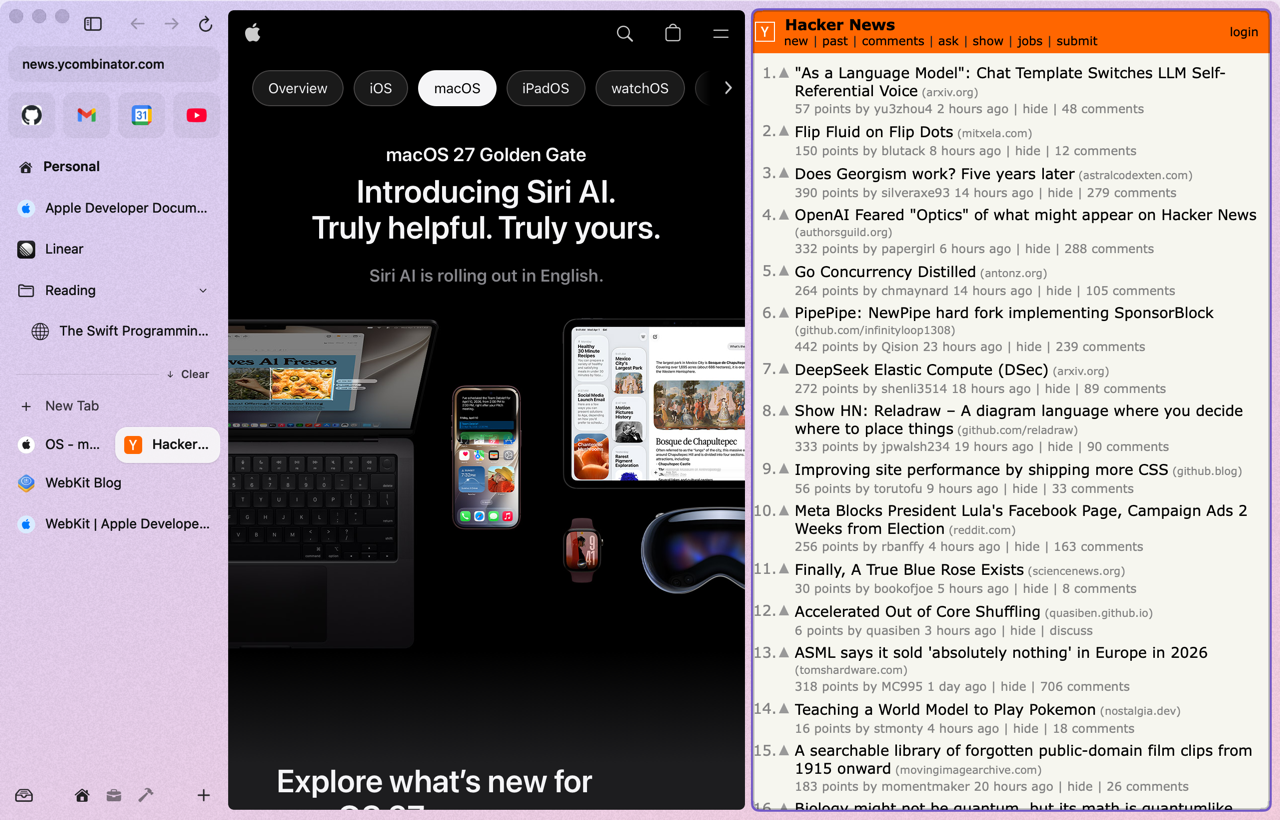
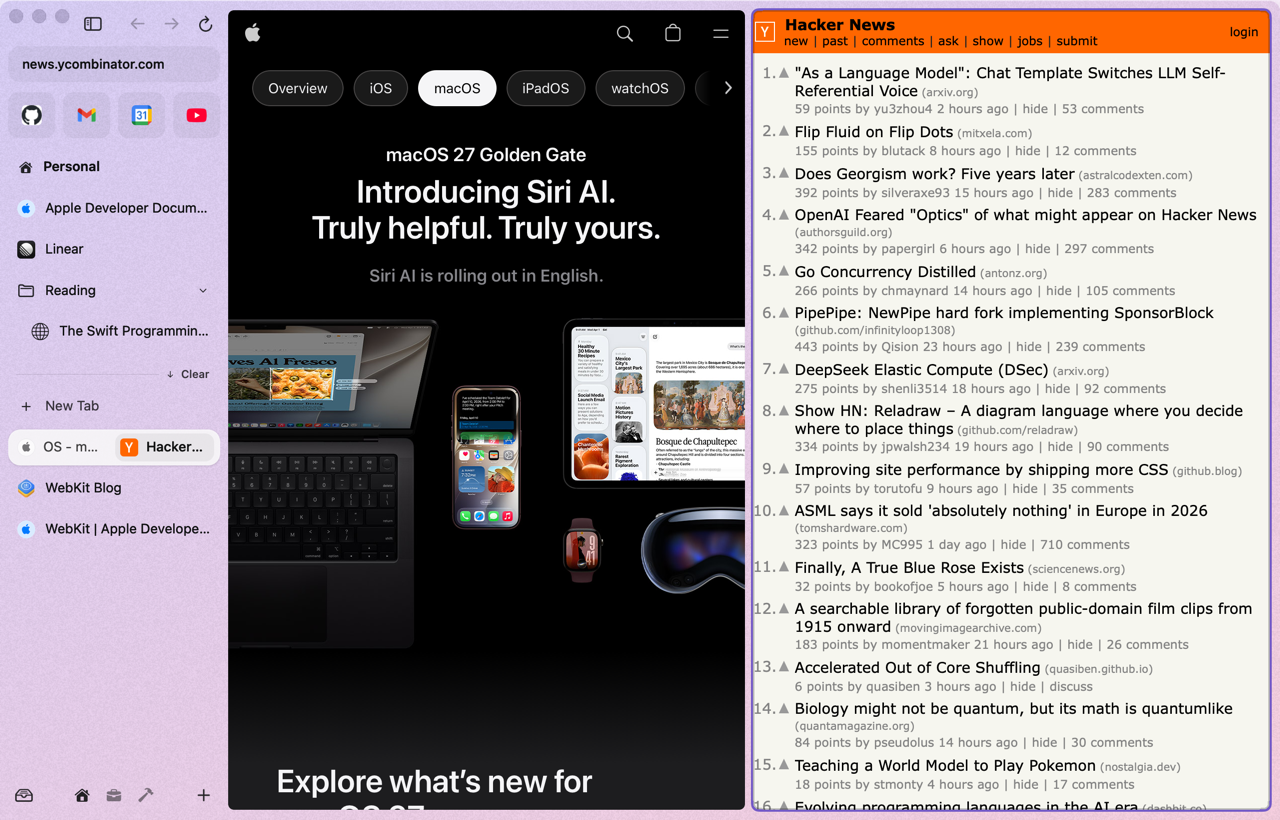
Split row: its own sidebar item with a segment per pane
A split was drawn as a row of shrunken tab rows. The new splitRow node is one
36 pt row with a favicon + title segment per pane (favicons only when 3-4
panes leave no room), hairlines between them and the focused pane in an
inner chip while the split is shown. Click a segment to focus that pane,
the hover X separates the split, a tab dropped into it joins the split, and
the row drags and drops on space icons like a tab.

Changed region(s): [[0.5938, 0.6098, 0.9688, 1.0], [0.0, 0.5183, 0.1562, 0.6707]]

diff --git a/Sources/DenHost/Toolkit/Rows.swift b/Sources/DenHost/Toolkit/Rows.swift
@@ -489,6 +489,116 @@ final class TabRowNode: HoverNode {
   override func otherMouseUp(with event: NSEvent) { if event.buttonNumber == 2 { emit("close") } }
 }
 
+/// A split view as one sidebar item (Arc §7: "a split is its own tab"): one 36 pt row holding a
+/// segment per pane (favicon + title), split by hairlines. While the split is shown, the focused
+/// pane sits in an inner chip and the others dim. Segment geometry is den's estimate (Arc's split
+/// row was never measured, spec §12).
+/// {type:"splitRow", id, selected, layout?, panes: [{id, title, icon, selected}], closable=true, indent?}
+/// actions: click {pane}, close (hover X: separate), reorder, dropOnSpace, contextMenu/menu
+final class SplitRowNode: HoverNode {
+  @MainActor final class Segment {
+    let icon = IconView()
+    let label = makeLabel()
+    var frame = NSRect.zero
+    var id = ""
+    var focused = false
+  }
+  var segments: [Segment] = []
+  lazy var close = IconButton(symbol: "xmark", size: 22) { [weak self] in self?.emit("close") }
+  let layoutIcon = IconView()
+  static let chipInset: CGFloat = 4
+  override var draggable: Bool { true }
+  override var fillRect: NSRect { bounds.insetBy(dx: 0, dy: (bounds.height - 36) / 2) }
+  required init(renderer: Renderer) {
+    super.init(renderer: renderer)
+    addSubview(close)
+    close.isHidden = true
+  }
+  required init?(coder: NSCoder) { fatalError() }
+  var indent: CGFloat { CGFloat(node.num("indent", 0)) * Tokens.folderIndent }
+  override func hoverChanged() { close.isHidden = !(hovering && node.flag("closable", true)); needsLayout = true }
+  override func update(_ v: Value) {
+    super.update(v)
+    let panes = v.list("panes")
+    while segments.count < panes.count {
+      let s = Segment()
+      addSubview(s.icon)
+      addSubview(s.label)
+      segments.append(s)
+    }
+    while segments.count > panes.count {
+      let s = segments.removeLast()
+      s.icon.removeFromSuperview()
+      s.label.removeFromSuperview()
+    }
+    for (s, p) in zip(segments, panes) {
+      s.id = p.str("id")
+      s.focused = p.flag("selected")
+      s.label.stringValue = p.str("title", "Untitled")
+      s.icon.spec = p.str("icon")
+      s.icon.fallbackLetter = p.str("title")
+    }
+    toolTip = panes.map { $0.str("title") }.joined(separator: "  |  ")
+    apply(r.palette)
+    needsLayout = true
+    needsDisplay = true
+  }
+  override func apply(_ p: Palette) {
+    let shown = node.flag("selected")
+    for s in segments {
+      let strong = !shown || s.focused
+      s.label.textColor = strong ? p.text : p.secondaryText
+      s.label.font = .systemFont(ofSize: Tokens.tabRowFontSize, weight: shown && s.focused ? .medium : .regular)
+      s.icon.tint = p.text
+      s.icon.alphaValue = strong ? 1 : 0.6
+    }
+    close.apply(p)
+    needsDisplay = true
+  }
+  override func height(for w: CGFloat) -> CGFloat { Tokens.tabRowHeight }
+  override func layout() {
+    let h = bounds.height, s = Tokens.tabRowIconSize
+    var right = bounds.width - 4
+    if !close.isHidden { close.frame = NSRect(x: right - 24, y: (h - 22) / 2, width: 22, height: 22); right -= 26 }
+    let left = indent + 2
+    let n = CGFloat(max(1, segments.count))
+    let w = ((right - left) / n).rounded(.down)
+    for (i, seg) in segments.enumerated() {
+      seg.frame = NSRect(x: left + CGFloat(i) * w, y: fillRect.minY, width: w, height: fillRect.height)
+      // Favicon + title; a narrow segment (3–4 panes) keeps only the favicon, centered.
+      let pad: CGFloat = 7
+      let titleRoom = w - pad * 2 - s - 6
+      if titleRoom < 40 {
+        seg.icon.frame = NSRect(x: seg.frame.midX - s / 2, y: (h - s) / 2, width: s, height: s)
+        seg.label.isHidden = true
+      } else {
+        seg.icon.frame = NSRect(x: seg.frame.minX + pad, y: (h - s) / 2, width: s, height: s)
+        seg.label.isHidden = false
+        seg.label.frame = NSRect(x: seg.icon.frame.maxX + 6, y: (h - 18) / 2, width: titleRoom, height: 18)
+      }
+    }
+  }
+  override func draw(_ dirtyRect: NSRect) {
+    super.draw(dirtyRect)
+    let shown = node.flag("selected")
+    let chip = segments.first { shown && $0.focused }
+    if let c = chip {
+      let r = c.frame.insetBy(dx: Self.chipInset - 2, dy: Self.chipInset)
+      (palette.dark ? Palette.snow(0.10) : Palette.ink(0.06)).setFill()
+      NSBezierPath(roundedRect: r, xRadius: Tokens.tabRowCornerRadius - 3, yRadius: Tokens.tabRowCornerRadius - 3).fill()
+    }
+    // Hairlines between segments, hidden next to the chip.
+    palette.divider.setFill()
+    for (a, b) in zip(segments, segments.dropFirst()) where a !== chip && b !== chip {
+      NSRect(x: b.frame.minX - 0.5, y: bounds.midY - 8, width: 1, height: 16).fill()
+    }
+  }
+  override func clicked(at p: NSPoint, event: NSEvent) {
+    let seg = segments.first { $0.frame.contains(NSPoint(x: p.x, y: $0.frame.midY)) } ?? segments.first
+    emit("click", ["pane": .string(seg?.id ?? "")])
+  }
+}
+
 /// {type:"folder", id, title, icon?, open, children, editing?}  actions: toggle, click, reorder (as target: position "into"),
 /// rename {title} / renameCancel (while `editing`)
 final class FolderNode: NodeView {

diff --git a/Plugins/tabs/TabsCore.swift b/Plugins/tabs/TabsCore.swift
@@ -821,7 +821,7 @@ final class TabsCore {
   /// "Move to <Space>" and dropping a row on a footer space icon: the tab (or folder) keeps its
   /// section (pinned stays pinned) in the other space; a favorite lands in that space's today.
   func moveToSpace(_ id: String, _ sid: String) {
-    guard pageIndex(sid) != nil, tabs[id] != nil || folders[id] != nil else { return }
+    guard pageIndex(sid) != nil, tabs[id] != nil || folders[id] != nil || splits[id] != nil else { return }
     let kind = folders[id] != nil ? "pinned" : kindOf(id)
     if kind != "favorite" && (spaceOf(id) ?? folders[id]?.spaceId) == sid { return }
     _ = move(["id": .string(id), "spaceId": .string(sid), "kind": .string(kind == "favorite" ? "today" : kind)])
@@ -1076,17 +1076,13 @@ final class TabsCore {
                        ["separator": true], ["id": "deleteFolder", "title": "Delete Folder…", "icon": "sf:trash"]]]
     }
     if let sp = splits[id] {
-      // One sidebar item: the split's tabs side by side (Arc §7). Clicking a pane's half focuses it.
+      // One sidebar item: the split's tabs side by side (Arc §7). Clicking a pane's segment focuses it.
       let sel = selected[sid]
       let on = sp.children.contains(sel ?? "")
-      return ["type": "row", "id": .string("tabs.split:" + id), "height": 36, "spacing": 2, "selected": .bool(on),
-              "menu": .array(splitMenu(id)),
-              "children": .array(sp.children.compactMap { c -> Value? in
-                guard tabs[c] != nil else { return nil }
-                var r = row(c, sid, box: .split(id))
-                r.put("selected", .bool(c == sel))
-                r.put("menu", .array(splitMenu(id)))
-                return r
+      return ["type": "splitRow", "id": .string(id), "selected": .bool(on), "layout": .string(sp.layout), "menu": .array(splitMenu(id)),
+              "panes": .array(sp.children.compactMap { c -> Value? in
+                guard let t = tabs[c] else { return nil }
+                return ["id": .string(c), "title": .string(t.displayTitle), "icon": .string(t.icon), "selected": .bool(c == sel)]
               })]
     }
     guard tabs[id] != nil else { return nil }
@@ -1344,12 +1340,20 @@ final class TabsCore {
 
   func handleReorder(_ value: Value) {
     let src = value.s("source"), dst = value.s("target"), pos = value.s("position")
-    guard src != dst, tabs[src] != nil || folders[src] != nil, let (tb, ti) = locate(dst) else { return }
+    guard src != dst, tabs[src] != nil || folders[src] != nil || splits[src] != nil, let (tb, ti) = locate(dst) else { return }
+    // A split never goes inside another split.
+    if splits[src] != nil, case .split = tb { return }
     var box = tb
     var index = pos == "after" ? ti + 1 : ti
     if pos == "into", folders[dst] != nil {
       box = .folder(dst)
       index = folders[dst]!.children.count
+    }
+    if pos == "into", let sp = splits[dst] {
+      // A tab dropped on a split row joins it as its last pane (Arc: drag a tab onto another).
+      guard tabs[src] != nil, !sp.children.contains(src) else { return }
+      _ = split(sp.children + [src], layout: sp.layout, focus: src)
+      return
     }
     if folders[src] != nil {
       // Folders live in the pinned section, never inside themselves.
@@ -1408,6 +1412,23 @@ final class TabsCore {
       }
       return
     }
+    if let sp = splits[id] {
+      switch action {
+      case "click":
+        let pane = value.s("pane")
+        if sp.children.contains(pane) {
+          select(pane)
+        } else if let first = sp.children.first {
+          select(first)
+        }
+      case "close": unsplit(id)
+      case "reorder": handleReorder(value)
+      case "dropOnSpace": moveToSpace(id, value.s("spaceId"))
+      case "menu": _ = splitMenuPicked(value.string ?? "")
+      default: break
+      }
+      return
+    }
     switch id {
     case "tabs.nav":
       if action == "toggleSidebar" { env.call("window", "toggleSidebar") } else { web(action) }
@@ -1417,7 +1438,6 @@ final class TabsCore {
     default:
       if Text.hasPrefix(id, "tabs.divider:"), action == "clear" { clearToday(Text.dropPrefix(id, "tabs.divider:")) }
       if Text.hasPrefix(id, "tabs.newtab:"), action == "click" { openCommandBar("new") }
-      if Text.hasPrefix(id, "tabs.split:"), action == "menu" { _ = splitMenuPicked(value.string ?? "") }
       if Text.hasPrefix(id, "tabs.deleteFolder:"), action == "button" {
         env.call("ui", "set", ["slot": "dialog", "tree": nil])
         let fid = Text.dropPrefix(id, "tabs.deleteFolder:")

diff --git a/Tests/PluginTests/PeekTests.swift b/Tests/PluginTests/PeekTests.swift
@@ -199,10 +199,10 @@ struct PeekTests {
     #expect(h.todayItems[0]["layout"] == "horizontal")
     #expect(h.panes == [t[0], t[1]])
     #expect(h.rt.call("content", "get")["orientation"] == "horizontal")
-    // Rendered as one row holding both tabs.
+    // Rendered as one split row holding both tabs.
     let row = h.tree("sidebar.today", 0)["children"][2]
-    #expect(row["id"].string == "tabs.split:" + sid)
-    #expect(row["children"].array?.count == 2)
+    #expect(row["type"] == "splitRow" && row["id"].string == sid)
+    #expect(row["panes"].array?.map { $0.s("id") } == [t[0], t[1]])
     // Ctrl-Shift-2 focuses the second pane; tabs follows with the selection.
     h.key("ctrl+shift+2")
     #expect(h.rt.call("content", "get")["focus"].string == t[1])
@@ -215,7 +215,7 @@ struct PeekTests {
     let added = h.panes[2]
     #expect(h.selected == added)
     // Grid layout through the split's menu.
-    h.action("tabs.split:" + sid, "menu", .string("layout:" + sid + ":grid"))
+    h.action(sid, "menu", .string("layout:" + sid + ":grid"))
     #expect(h.rt.call("content", "get")["orientation"] == "grid")
     #expect(h.todayItems[0]["layout"] == "grid")
     // A fourth pane is allowed; a fifth is not.
@@ -239,6 +239,54 @@ struct PeekTests {
     #expect(h2.todayItems.allSatisfy { $0["split"] != true })
     #expect(Array(h2.ids("today").prefix(3)) == [t[0], t[1], t[2]])
     #expect(h2.panes.count == 1)
+  }
+
+  /// The split's own sidebar row: a segment per pane, click focuses a pane, a tab dropped "into"
+  /// the row joins the split, the hover X separates it.
+  @Test func splitRowSegmentsClickDropAndClose() throws {
+    let h = Harness()
+    h.startPeek()
+    let w = h.rt.window.window
+    w.orderFront(nil)
+    let t = h.ids("today")
+    let sid = try #require(h.peek("split", ["ids": [.string(t[0]), .string(t[1])], "layout": "horizontal"])["id"].string)
+    w.contentView?.layoutSubtreeIfNeeded()
+    h.rt.ui.sidebarView.layoutSubtreeIfNeeded()
+    let row = try #require(HostScenarios.find(sid, in: h.rt.ui.sidebarView) as? SplitRowNode)
+    row.layoutSubtreeIfNeeded()
+    #expect(row.segments.map(\.id) == [t[0], t[1]])
+    #expect(row.node.flag("selected"))
+    #expect(row.segments.filter(\.focused).map(\.id) == [h.selected!])
+    // Segments split the row evenly and don't overlap.
+    #expect(row.segments[0].frame.maxX <= row.segments[1].frame.minX)
+    #expect(abs(row.segments[0].frame.width - row.segments[1].frame.width) < 1)
+    #expect(!row.segments[0].label.isHidden)
+    // A real click on the first segment focuses that pane.
+    func ev(_ type: NSEvent.EventType, _ v: NSView, _ p: NSPoint) -> NSEvent {
+      NSEvent.mouseEvent(with: type, location: v.convert(p, to: nil), modifierFlags: [], timestamp: 0, windowNumber: w.windowNumber, context: nil, eventNumber: 0, clickCount: 1, pressure: 1)!
+    }
+    let p0 = NSPoint(x: row.segments[0].frame.midX, y: row.bounds.midY)
+    row.mouseDown(with: ev(.leftMouseDown, row, p0))
+    row.mouseUp(with: ev(.leftMouseUp, row, p0))
+    #expect(h.selected == t[0])
+    #expect(h.rt.call("content", "get")["focus"].string == t[0])
+    #expect(row.segments.filter(\.focused).map(\.id) == [t[0]])
+    // Drag the next today tab into the middle of the split row: it joins as a third pane.
+    let other = try #require(HostScenarios.find(t[2], in: h.rt.ui.sidebarView) as? TabRowNode)
+    let drag = h.rt.ui.drag
+    drag.begin(other, event: ev(.leftMouseDown, other, NSPoint(x: other.bounds.midX, y: other.bounds.midY)))
+    drag.move(ev(.leftMouseDragged, row, NSPoint(x: row.bounds.midX, y: row.bounds.midY)))
+    drag.end(ev(.leftMouseUp, row, NSPoint(x: row.bounds.midX, y: row.bounds.midY)))
+    #expect(h.panes == [t[0], t[1], t[2]])
+    #expect(h.todayItems[0]["children"].array?.map { $0.s("id") } == [t[0], t[1], t[2]])
+    let row3 = try #require(HostScenarios.find(sid, in: h.rt.ui.sidebarView) as? SplitRowNode)
+    #expect(row3.segments.count == 3)
+    // The hover X separates the split back into tabs.
+    h.action(sid, "close")
+    #expect(h.todayItems.prefix(3).map { $0.s("id") } == [t[0], t[1], t[2]])
+    #expect(h.tree("sidebar.today", 0)["children"].array?.contains { $0["type"] == "splitRow" } == false)
+    h.key("ctrl+z")
+    #expect(h.todayItems[0]["split"] == true)
   }
 
   @Test func splitShrinksToOneTabAndDissolves() {

diff --git a/Sources/DenHost/Toolkit/SidebarView.swift b/Sources/DenHost/Toolkit/SidebarView.swift
@@ -406,7 +406,9 @@ final class DragController {
         indicator.frame = NSRect(x: (pos == "before" ? f.minX - 4 : f.maxX + 2), y: f.minY + 4, width: 2, height: f.height - 8)
       } else {
         let rel = (p.y - f.minY) / f.height
-        pos = hit is FolderNode.Header && rel > 0.3 && rel < 0.7 ? "into" : (rel < 0.5 ? "before" : "after")
+        // Folders take rows "into" them; so do splits (a tab joins the split), but not other splits.
+        let into = hit is FolderNode.Header || (hit is SplitRowNode && source is TabRowNode)
+        pos = into && rel > 0.3 && rel < 0.7 ? "into" : (rel < 0.5 ? "before" : "after")
         indicator.frame = pos == "into" ? f.insetBy(dx: 0, dy: f.height / 2 - 1) : NSRect(x: f.minX + 6, y: (pos == "before" ? f.minY - 2 : f.maxY) , width: f.width - 12, height: 2)
       }
       newTarget = (hit.nodeId, pos)

diff --git a/Sources/DenHost/Toolkit/Renderer.swift b/Sources/DenHost/Toolkit/Renderer.swift
@@ -49,7 +49,7 @@ public final class Renderer {
     "button": ButtonNode.self, "navBar": NavBarNode.self, "urlPill": URLPillNode.self,
     "grid": GridNode.self, "favoriteTile": FavoriteTileNode.self, "spaceTitle": SpaceTitleNode.self,
     "tabRow": TabRowNode.self, "folder": FolderNode.self, "divider": DividerNode.self,
-    "newTabRow": NewTabRowNode.self, "spaceIcon": SpaceIconNode.self,
+    "newTabRow": NewTabRowNode.self, "spaceIcon": SpaceIconNode.self, "splitRow": SplitRowNode.self,
     "themePicker": ThemePickerNode.self,
   ]
 

diff --git a/docs/plugin-services.md b/docs/plugin-services.md
@@ -61,9 +61,9 @@ Tab object: `{id, spaceId, kind: favorite|pinned|today, folderId?, title, custom
 | `unsplit` | `id`: a split id ("Separate All Tabs"), or a tab id (only that tab leaves, placed after the split) | ok |
 | `settings` | `archiveAfterMs?` (0 = never, default 12 h), `suspendAfterMs?` (0 = never, default 30 min) | `{archiveAfterMs, suspendAfterMs}` |
 
-`rename` also renames folders. Dropping a tab row or folder on another space's footer icon moves it to that space, keeping its section (Arc; a favorite lands in that space's today tabs). In the sidebar, double-clicking a tab row or picking "Rename…" (tabs) / "Rename Folder…" (folders) from the context menu edits the title in place (Arc §2): Return commits, Esc cancels, an empty tab title resets to the page's. Tab and webview ids are the same (`tab-<n>`); folder ids are `folder-<n>`, split ids `split-<n>`. Other UI node ids: `tabs.nav`, `tabs.url`, `tabs.divider:<spaceId>`, `tabs.newtab:<spaceId>`, `tabs.split:<splitId>`, dialog `tabs.deleteFolder:<id>`.
+`rename` also renames folders. Dropping a tab row or folder on another space's footer icon moves it to that space, keeping its section (Arc; a favorite lands in that space's today tabs). In the sidebar, double-clicking a tab row or picking "Rename…" (tabs) / "Rename Folder…" (folders) from the context menu edits the title in place (Arc §2): Return commits, Esc cancels, an empty tab title resets to the page's. Tab and webview ids are the same (`tab-<n>`); folder ids are `folder-<n>`, split ids `split-<n>`. Other UI node ids: `tabs.nav`, `tabs.url`, `tabs.divider:<spaceId>`, `tabs.newtab:<spaceId>`, dialog `tabs.deleteFolder:<id>`.
 
-**Splits** (Arc §7) are sidebar items like tabs: they sit in favorites, pinned, a folder or today, and their tabs take that kind. Selecting any tab of a split shows the whole split (`content.show` with every pane, the split's layout and that tab focused); focusing another pane (click or Ctrl-Shift-N) makes its tab the selected one. The sidebar row is a `row` node of the split's `tabRow`s, whose menu offers the other layouts and "Separate All Tabs". A split left with one tab (archive, close, move) dissolves into that tab. Splits persist in `state.splits`. The New Tab row and the URL pill call `commands.open` (`new` / `edit`). Dropping a tab on the content calls `peek.split`. Cmd-W first closes an open command bar (`commands.close`) or peek (`peek.close`); Cmd-Shift-T first asks `peek.reopen {after}` (with the newest archive entry's `closedAt`) and restores a tab only if that fails. Links from other apps (`app.openURL` and `app.pendingURLs`, read one timer turn after start) go to `peek.openExternal` first, and open as today tabs only when it returns `claimed: false` or fails. State lives in storage ns `tabs`, keys `state` and `settings`. First run seeds sample favorites, pinned tabs, a folder and today tabs.
+**Splits** (Arc §7) are sidebar items like tabs: they sit in favorites, pinned, a folder or today, and their tabs take that kind. Selecting any tab of a split shows the whole split (`content.show` with every pane, the split's layout and that tab focused); focusing another pane (click or Ctrl-Shift-N) makes its tab the selected one. The sidebar item is a `splitRow` node (id = the split id): a segment per pane, the focused one in a chip while the split is shown. Clicking a segment selects that tab, its hover X separates the split, a tab row dropped into its middle joins the split, and its menu offers the other layouts and "Separate All Tabs". Splits can be dragged like tabs and dropped on a footer space icon. A split left with one tab (archive, close, move) dissolves into that tab. Splits persist in `state.splits`. The New Tab row and the URL pill call `commands.open` (`new` / `edit`). Dropping a tab on the content calls `peek.split`. Cmd-W first closes an open command bar (`commands.close`) or peek (`peek.close`); Cmd-Shift-T first asks `peek.reopen {after}` (with the newest archive entry's `closedAt`) and restores a tab only if that fails. Links from other apps (`app.openURL` and `app.pendingURLs`, read one timer turn after start) go to `peek.openExternal` first, and open as today tabs only when it returns `claimed: false` or fails. State lives in storage ns `tabs`, keys `state` and `settings`. First run seeds sample favorites, pinned tabs, a folder and today tabs.
 
 Events:
 - `tabs.changed {spaceId}` fires on any change to the lists.

diff --git a/docs/host-api.md b/docs/host-api.md
@@ -125,6 +125,7 @@ Web views that aren't shown are detached from the window, which lets WebKit susp
 | `spaceTitle` | `id`, `title`, `icon?` | `click`, `more` |
 | `spaceIcon` | `id`, `icon?` (empty = dot), `title`, `selected`, `spaceId?` (makes it a drop target for dragged rows) | `click` |
 | `tabRow` | `id`, `title`, `icon`, `selected`, `audio`, `muted?`, `drift` (the "/" marker), `closable=true`, `indent?`, `draggable=true`, `editing?`, `editText?` | `click {modifiers?}`, `doubleClick`, `close` (also middle-click), `reset` (favicon click while drifted), `mute`, `reorder`, `dropOnContent`, `rename {title}`, `renameCancel` |
+| `splitRow` | `id`, `selected` (the split is shown), `layout?`, `panes: [{id, title, icon, selected}]` (`selected` = focused pane), `closable=true`, `indent?` | `click {pane}`, `close` (hover X), `reorder` (as target, a tab row can drop `into` it), `dropOnSpace` |
 | `folder` | `id`, `title`, `icon?`, `open`, `children`, `editing?` | `toggle`, `reorder` (as target: `position: "into"`), `rename {title}`, `renameCancel` |
 | `divider` | `id`, `action?` (label, e.g. "Clear") | `clear` |
 | `newTabRow` | `id`, `title?` | `click` |
